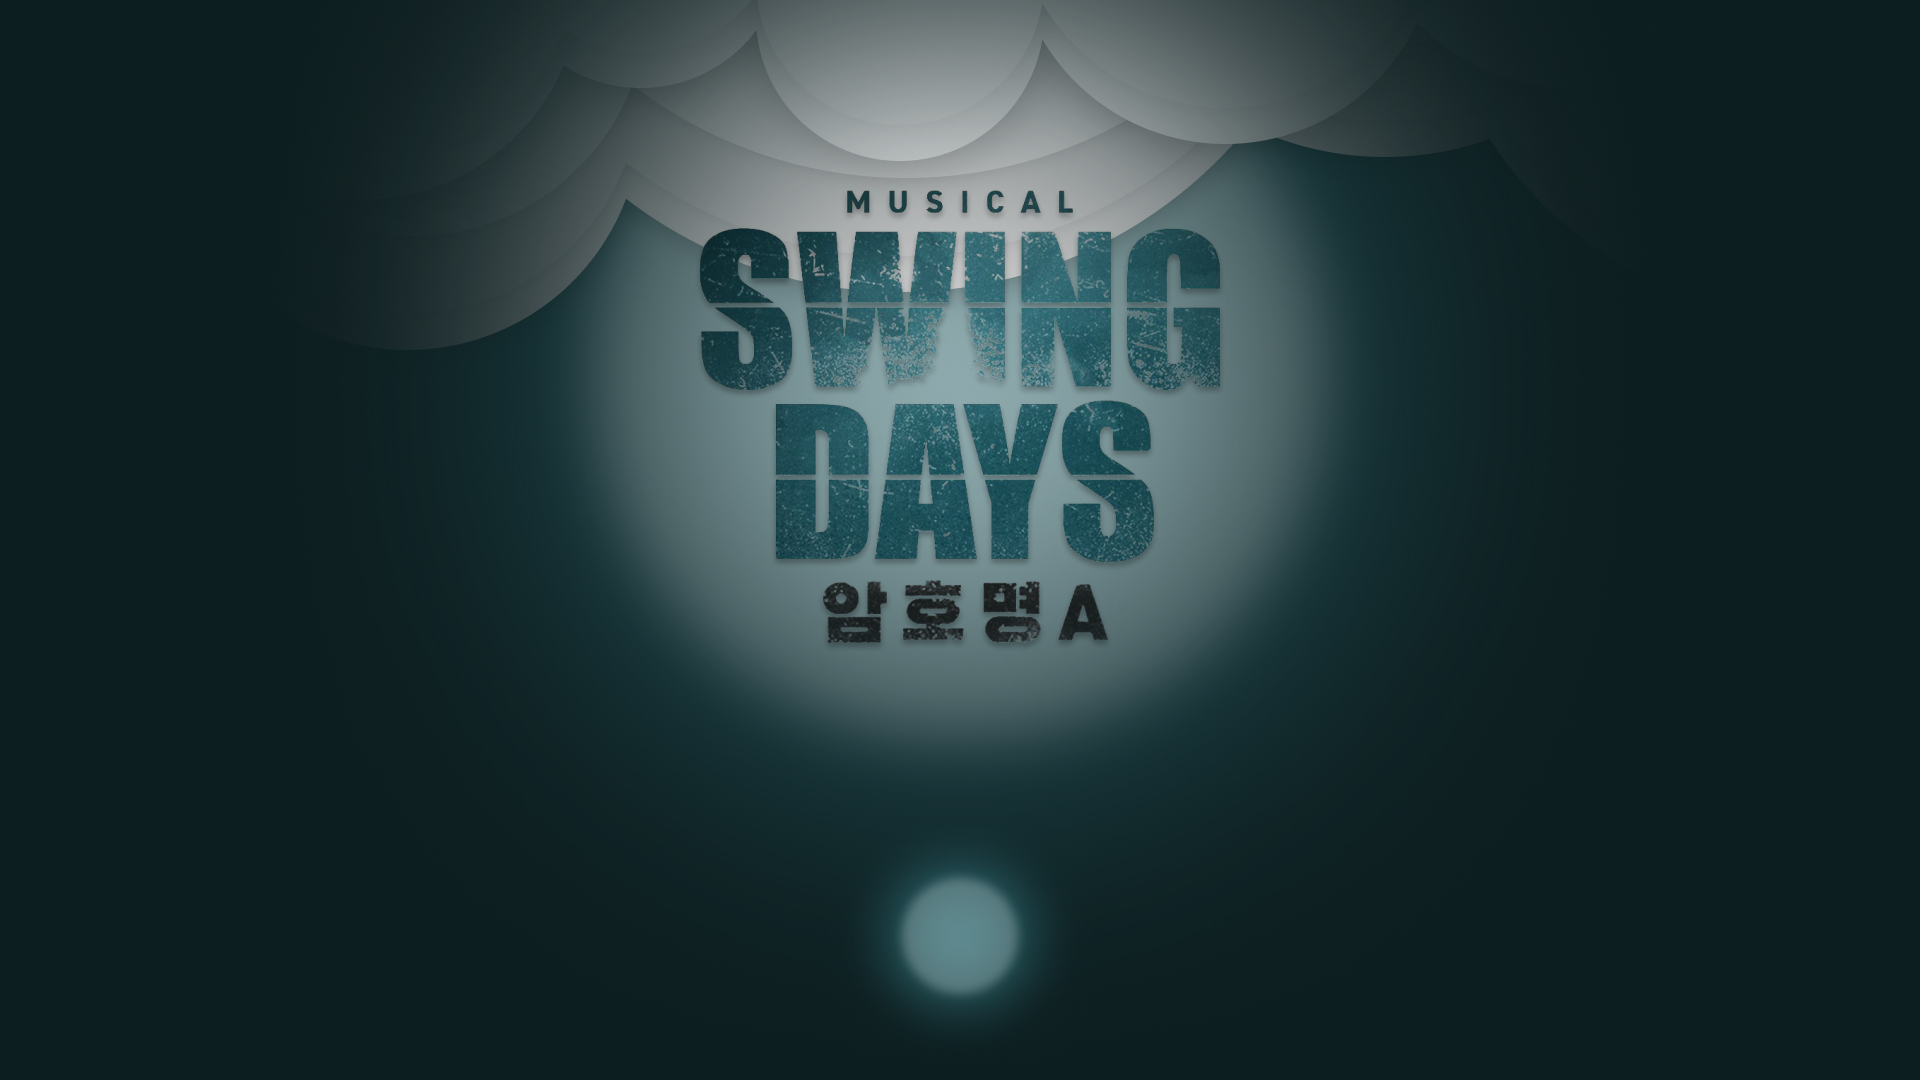
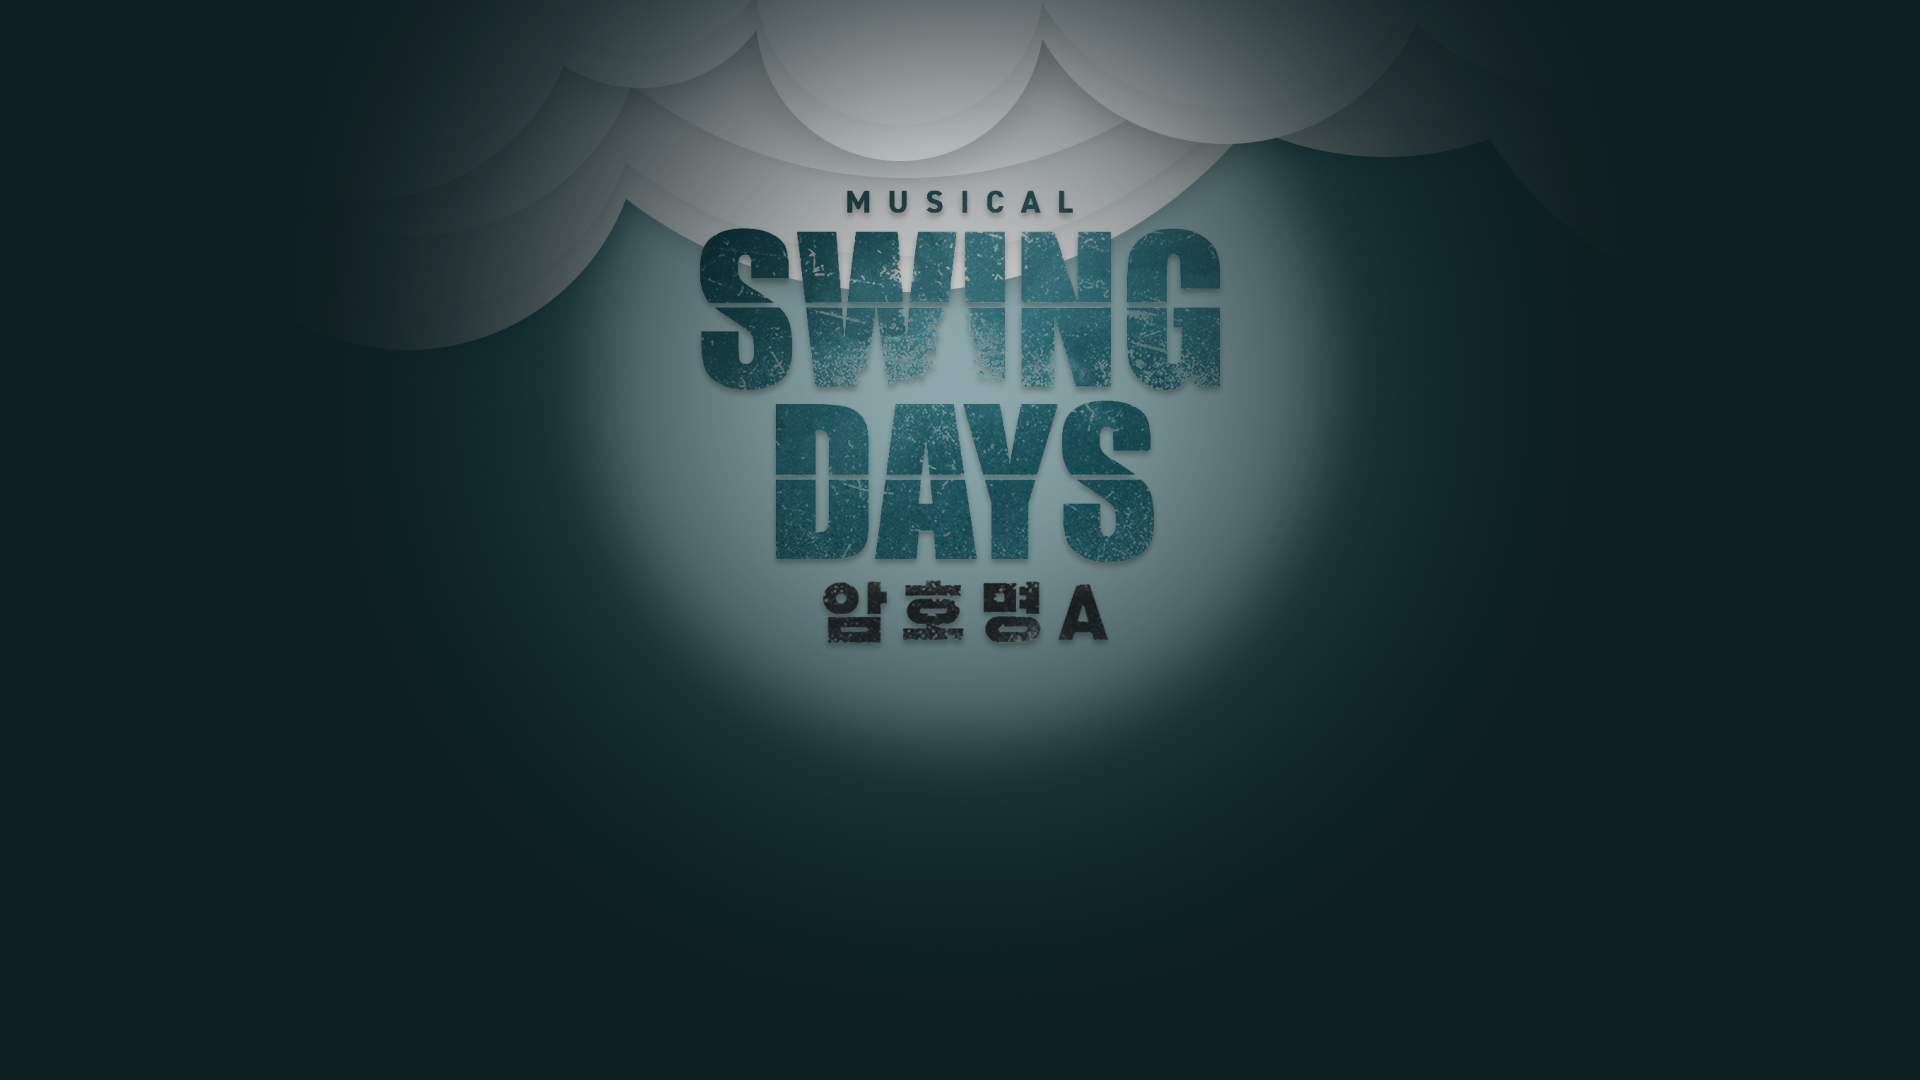
Add files via upload

Changed region(s): [[0.4375, 0.7944, 0.5625, 0.9472]]

diff --git a/css/style.css b/css/style.css
@@ -11,11 +11,13 @@ body{overflow:hidden;}
   width:100%; height:100vh; background:url("../images/index_background.jpg") no-repeat center/cover, #0D1E20; font-family: 'HangulJaemin30', 'sans-serif';
 }
 h1{
-  font-size:40px; color:#fff; transform:translateY(660px); text-align:center;
+  font-size:40px; color:#fff; transform:translateY(650px); text-align:center;
 }
 .start{
-  font-size:40px; background:transparent; border:0 none; color:#fff; font-family: 'HangulJaemin30', 'sans-serif';
-  position:absolute; top:770px; left:50%;
+  font-size:40px; background:url("../images/desktop_bg.png") no-repeat center/cover;
+  border:0 none; color:#fff; font-family: 'HangulJaemin30', 'sans-serif';
+  width:140px; height:140px;
+  position:absolute; top:700px; left:50%;
   transform:translateX(-50%);
 }
 .play{
@@ -63,7 +65,10 @@ h3{margin-bottom:20px;}
     background:url("../images/index_background_p.jpg") no-repeat center/cover;
   }
   h1{font-size:22px; transform:translateY(700px);}
-  .start{font-size:28px; top:779px;}
+  .start{
+    font-size:28px; top:710px; width:140px; height:140px;
+    background:url("../images/phone_bg.png") no-repeat center/cover;
+  }
   .play{background:url("../images/main_background_p.jpg") no-repeat center/cover}
   .play>.play_area{
     max-width:350px; height:400px; row-gap:10px; column-gap:10px;

diff --git a/script/script.js b/script/script.js
@@ -74,6 +74,7 @@ const randomTarget = () => {
   }, 700);
 }
 document.querySelectorAll('.tables>.n1').forEach((img) => {
+  const originalSrc = img.src;
   img.addEventListener('mousedown', ()=>{
     if( clickable ){
       gameScore++;